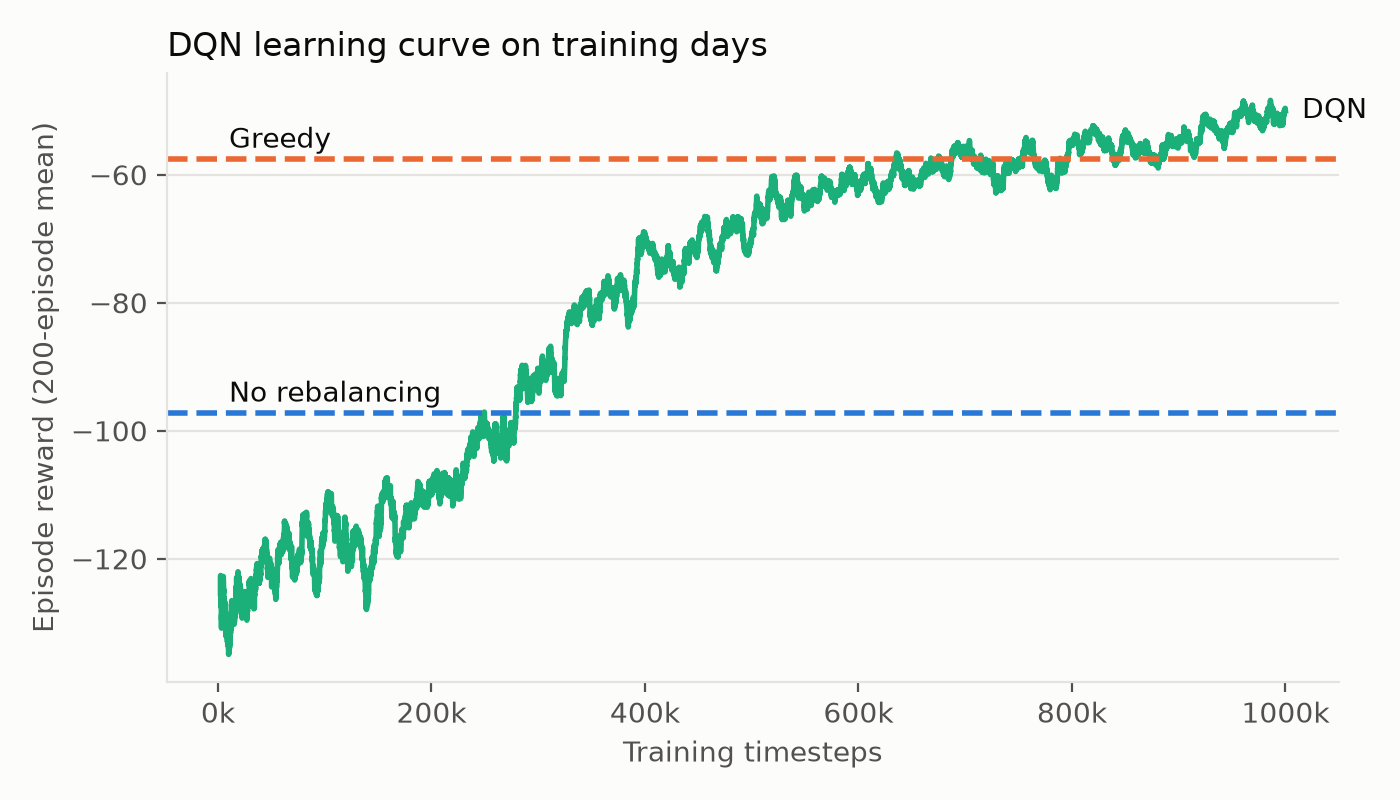
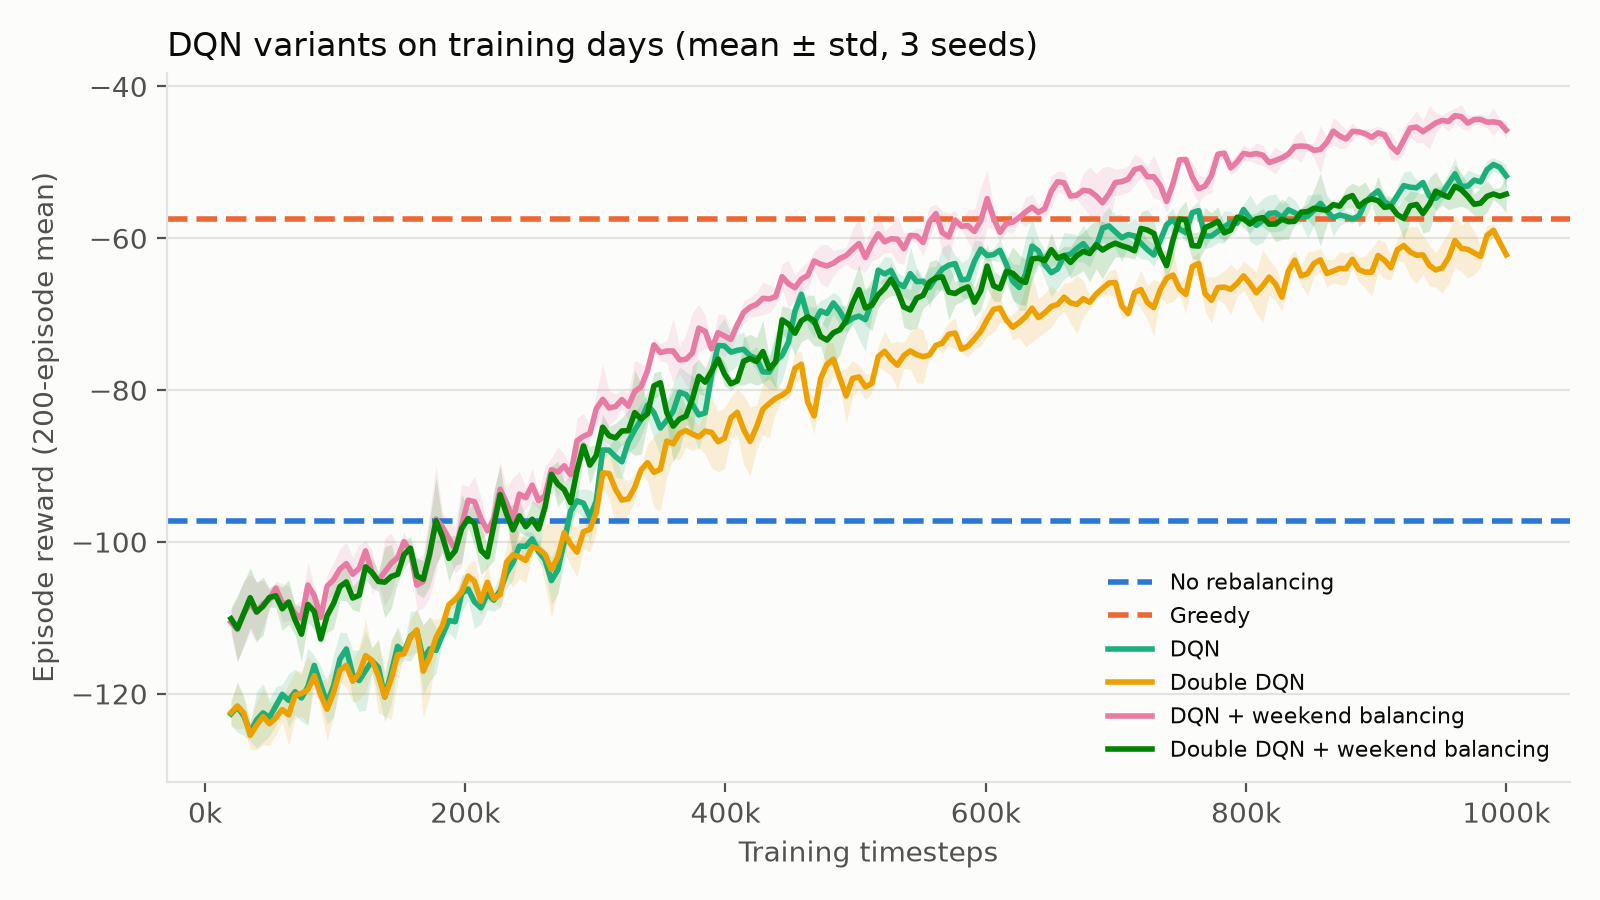
multi-seed comparison plots and station-hour lost-trip heatmaps

Changed region(s): [[0.0, 0.125, 0.9829, 0.9688], [0.0921, 0.0312, 0.645, 0.0938], [0.0614, 0.0938, 0.1229, 0.125]]

diff --git a/plot_results.py b/plot_results.py
@@ -1,4 +1,3 @@
-import argparse
 from pathlib import Path
 
 import matplotlib
@@ -7,14 +6,27 @@ import matplotlib.pyplot as plt
 import matplotlib.ticker
 import numpy as np
 import pandas as pd
-from stable_baselines3 import DQN
+from matplotlib.colors import LinearSegmentedColormap
 
 from baselines import evaluate, greedy, no_rebalance
-from train_dqn import RESULTS, dqn_policy
+from bike_rebalance_env import BikeRebalanceEnv
+from train_dqn import RESULTS, run_name
 
 FIGURES = Path(__file__).parent / "figures"
-COLORS = {"No rebalancing": "#2a78d6", "Greedy": "#eb6834", "DQN": "#1baf7a"}
+SEEDS = [0, 1, 2]
+VARIANTS = {
+    "DQN": (False, False),
+    "Double DQN": (True, False),
+    "DQN + weekend balancing": (False, True),
+    "Double DQN + weekend balancing": (True, True),
+}
+COLORS = {
+    "No rebalancing": "#2a78d6", "Greedy": "#eb6834", "DQN": "#1baf7a", "Double DQN": "#eda100",
+    "DQN + weekend balancing": "#e87ba4", "Double DQN + weekend balancing": "#008300",
+}
 INK, MUTED, GRID, SURFACE = "#0b0b0b", "#52514e", "#e4e3df", "#fcfcfb"
+BLUES = LinearSegmentedColormap.from_list(
+    "blues", [SURFACE, "#cde2fb", "#86b6ef", "#3987e5", "#1c5cab", "#0d366b"])
 
 
 def style(ax):
@@ -32,67 +44,111 @@ def daily_reward(rows):
     return -(rows[:, 1] + 0.1 * rows[:, 3]).mean()
 
 
-def learning_curve(monitor, baselines_train):
-    m = pd.read_csv(monitor, skiprows = 1)
-    steps = m.l.cumsum()
-    smooth = m.r.rolling(200, min_periods = 50).mean()
+def load_runs():
+    runs = {}
+    for label, (double, wb) in VARIANTS.items():
+        names = [run_name(double, wb, s) for s in SEEDS]
+        tests = [np.load(RESULTS / f"{n}_test.npz") for n in names]
+        runs[label] = {
+            "rows": [t["rows"] for t in tests],
+            "heat": np.mean([t["heat"] for t in tests], axis = 0),
+            "monitors": [pd.read_csv(RESULTS / f"{n}.monitor.csv", skiprows = 1) for n in names],
+        }
+    return runs
 
-    fig, ax = plt.subplots(figsize = (7, 4), facecolor = SURFACE)
+
+def learning_curves(runs, baselines_train):
+    grid = np.linspace(20_000, 1_000_000, 200)
+    fig, ax = plt.subplots(figsize = (8, 4.5), facecolor = SURFACE)
     style(ax)
-    ax.plot(steps, smooth, color = COLORS["DQN"], linewidth = 2)
-    ax.annotate("DQN", (steps.iloc[-1], smooth.iloc[-1]), xytext = (6, 0), textcoords = "offset points",
-                va = "center", color = INK)
     for name, value in baselines_train.items():
-        ax.axhline(value, color = COLORS[name], linewidth = 2, linestyle = "--")
-        ax.annotate(name, (0, value), xytext = (4, 4), textcoords = "offset points", color = INK)
+        ax.axhline(value, color = COLORS[name], linewidth = 2, linestyle = "--", label = name)
+    for label, run in runs.items():
+        curves = [np.interp(grid, m.l.cumsum(), m.r.rolling(200, min_periods = 50).mean()) for m in run["monitors"]]
+        mean, std = np.mean(curves, axis = 0), np.std(curves, axis = 0)
+        ax.plot(grid, mean, color = COLORS[label], linewidth = 2, label = label)
+        ax.fill_between(grid, mean - std, mean + std, color = COLORS[label], alpha = 0.15, linewidth = 0)
     ax.xaxis.set_major_formatter(matplotlib.ticker.FuncFormatter(lambda v, _: f"{v / 1000:.0f}k"))
     ax.set_xlabel("Training timesteps", color = MUTED)
     ax.set_ylabel("Episode reward (200-episode mean)", color = MUTED)
-    ax.set_title("DQN learning curve on training days", color = INK, loc = "left")
+    ax.set_title(f"DQN variants on training days (mean ± std, {len(SEEDS)} seeds)", color = INK, loc = "left")
+    ax.legend(frameon = False, labelcolor = INK, fontsize = 8, loc = "lower right")
     fig.tight_layout()
     fig.savefig(FIGURES / "dqn_learning_curve.png", dpi = 200)
 
 
-def lost_trips_bars(results):
+def lost_trips_bars(table):
     groups = ["Weekday", "Weekend"]
     x = np.arange(len(groups))
-    width = 0.26
-    fig, ax = plt.subplots(figsize = (7, 4), facecolor = SURFACE)
+    width = 0.8 / len(table)
+    fig, ax = plt.subplots(figsize = (9, 4.5), facecolor = SURFACE)
     style(ax)
-    for i, (name, rows) in enumerate(results.items()):
-        values = [rows[rows[:, 0] == 1, 1].mean(), rows[rows[:, 0] == 0, 1].mean()]
-        bars = ax.bar(x + (i - 1) * width, values, width - 0.02, color = COLORS[name], label = name)
-        ax.bar_label(bars, fmt = "%.1f", padding = 3, color = INK, fontsize = 9)
+    for i, (name, r) in enumerate(table.items()):
+        offset = (i - (len(table) - 1) / 2) * width
+        bars = ax.bar(x + offset, [r["weekday"][0], r["weekend"][0]], width - 0.02,
+                      yerr = [r["weekday"][1], r["weekend"][1]], color = COLORS[name], label = name,
+                      error_kw = {"ecolor": MUTED, "elinewidth": 1, "capsize": 2})
+        ax.bar_label(bars, fmt = "%.0f", padding = 3, color = INK, fontsize = 8)
     ax.set_xticks(x, groups)
     ax.set_ylabel("Lost trips per day", color = MUTED)
     ax.set_title("Lost trips on held-out test days", color = INK, loc = "left")
-    ax.legend(frameon = False, labelcolor = INK)
+    ax.legend(frameon = False, labelcolor = INK, fontsize = 8)
     fig.tight_layout()
     fig.savefig(FIGURES / "test_lost_trips.png", dpi = 200)
 
 
+def heatmaps(panels, station_ids, weekdays):
+    hourly = {n: h[weekdays].mean(axis = 0).reshape(24, 2, -1).sum(axis = 1).T for n, h in panels.items()}
+    vmax = max(h.max() for h in hourly.values())
+    fig, axes = plt.subplots(1, len(hourly), figsize = (5 * len(hourly), 5.5), facecolor = SURFACE, sharey = True)
+    for ax, (name, h) in zip(axes, hourly.items()):
+        im = ax.imshow(h, aspect = "auto", cmap = BLUES, vmin = 0, vmax = vmax)
+        ax.set_title(f"{name}: {h.sum():.0f} lost/weekday", color = INK, loc = "left", fontsize = 10)
+        ax.set_xticks(range(0, 24, 3), [f"{t:02d}" for t in range(0, 24, 3)])
+        ax.set_xlabel("Hour of day", color = MUTED)
+        ax.tick_params(colors = MUTED, labelsize = 8)
+        for side in ax.spines.values():
+            side.set_visible(False)
+    axes[0].set_yticks(range(len(station_ids)), station_ids)
+    fig.colorbar(im, ax = axes, label = "Lost trips per weekday", shrink = 0.8)
+    fig.suptitle("Where and when trips are lost (weekday test days)", color = INK, x = 0.01, ha = "left")
+    fig.savefig(FIGURES / "lost_trips_heatmap.png", dpi = 200, bbox_inches = "tight")
+
+
+def summary(rows_list):
+    stats = lambda f: (np.mean([f(r) for r in rows_list]), np.std([f(r) for r in rows_list]))
+    return {
+        "lost": stats(lambda r: r[:, 1].mean()),
+        "pct": stats(lambda r: 100 * r[:, 1].sum() / r[:, 2].sum()),
+        "weekday": stats(lambda r: r[r[:, 0] == 1, 1].mean()),
+        "weekend": stats(lambda r: r[r[:, 0] == 0, 1].mean()),
+        "km": stats(lambda r: r[:, 3].mean()),
+    }
+
+
 def main():
-    p = argparse.ArgumentParser()
-    p.add_argument("--seed", type = int, default = 0)
-    args = p.parse_args()
-
     FIGURES.mkdir(exist_ok = True)
-    name = f"dqn_seed{args.seed}"
-    model = DQN.load(RESULTS / name)
-    policies = {"No rebalancing": no_rebalance, "Greedy": greedy, "DQN": dqn_policy(model)}
+    runs = load_runs()
+    baselines = {"No rebalancing": no_rebalance, "Greedy": greedy}
+    base_test = {n: evaluate(p, return_heat = True) for n, p in baselines.items()}
+    baselines_train = {n: daily_reward(evaluate(p, split = "train")) for n, p in baselines.items()}
 
-    results = {n: evaluate(pol) for n, pol in policies.items()}
-    baselines_train = {n: daily_reward(evaluate(policies[n], split = "train")) for n in ["No rebalancing", "Greedy"]}
+    table = {n: summary([rows]) for n, (rows, _) in base_test.items()}
+    table.update({n: summary(r["rows"]) for n, r in runs.items()})
 
-    learning_curve(RESULTS / f"{name}.monitor.csv", baselines_train)
-    lost_trips_bars(results)
+    learning_curves(runs, baselines_train)
+    lost_trips_bars(table)
 
+    best = min(runs, key = lambda n: table[n]["lost"][0])
+    env = BikeRebalanceEnv(split = "test")
+    heatmaps({"No rebalancing": base_test["No rebalancing"][1], "Greedy": base_test["Greedy"][1],
+              best: runs[best]["heat"]}, env.station_ids, env.weekdays)
+
+    fmt = lambda s: f"{s[0]:.1f} ± {s[1]:.1f}" if s[1] else f"{s[0]:.1f}"
     print("| Policy | Lost/day | Lost % | Weekday lost/day | Weekend lost/day | Van km/day |")
     print("|---|---|---|---|---|---|")
-    for n, rows in results.items():
-        wd, we = rows[:, 0] == 1, rows[:, 0] == 0
-        print(f"| {n} | {rows[:, 1].mean():.1f} | {100 * rows[:, 1].sum() / rows[:, 2].sum():.2f}% | "
-              f"{rows[wd, 1].mean():.1f} | {rows[we, 1].mean():.1f} | {rows[:, 3].mean():.1f} |")
+    for n, s in table.items():
+        print(f"| {n} | {fmt(s['lost'])} | {s['pct'][0]:.2f}% | {fmt(s['weekday'])} | {fmt(s['weekend'])} | {fmt(s['km'])} |")
 
 
 if __name__ == "__main__":

diff --git a/README.md b/README.md
@@ -25,8 +25,17 @@ python baselines.py                  # no-rebalancing and greedy on held-out tes
 ## DQN
 
 ```
-python train_dqn.py --seed 0         # 1M steps, saves results/dqn_seed0.zip and prints test-day results
-python plot_results.py --seed 0      # figures/ learning curve and test lost-trip bars, prints results table
+python train_dqn.py --seed 0                               # DQN, 1M steps, saves model and test results to results/
+python train_dqn.py --seed 0 --double                      # Double DQN
+python train_dqn.py --seed 0 --balance-weekends            # sample weekend days as often as weekdays in training
+python plot_results.py                                     # needs all 4 variants for seeds 0-1-2; writes figures/
+```
+
+All 12 runs in parallel:
+
+```
+for seed in 0 1 2; do for flags in "" "--double" "--balance-weekends" "--double --balance-weekends"; do
+  OMP_NUM_THREADS=1 python train_dqn.py --seed $seed $flags & done; done; wait
 ```
 
 ## Tabular Q-learning
